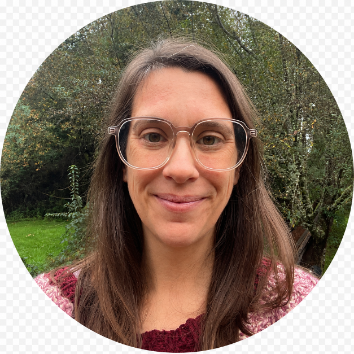
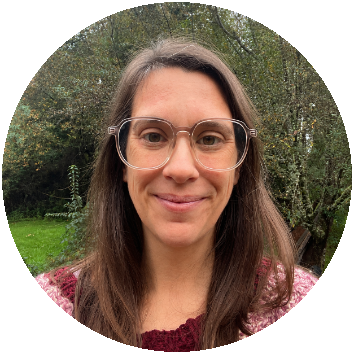
Quita fondo cuadriculado de fotos del equipo en Somos

diff --git a/src/app/[locale]/(site)/somos/SomosPage.module.css b/src/app/[locale]/(site)/somos/SomosPage.module.css
@@ -603,7 +603,7 @@
   border-radius: 50%;
   overflow: hidden;
   margin-bottom: 0.65rem;
-  background: color-mix(in oklab, var(--mist) 70%, #fff);
+  background: transparent;
 }
 
 .teamPhoto {
